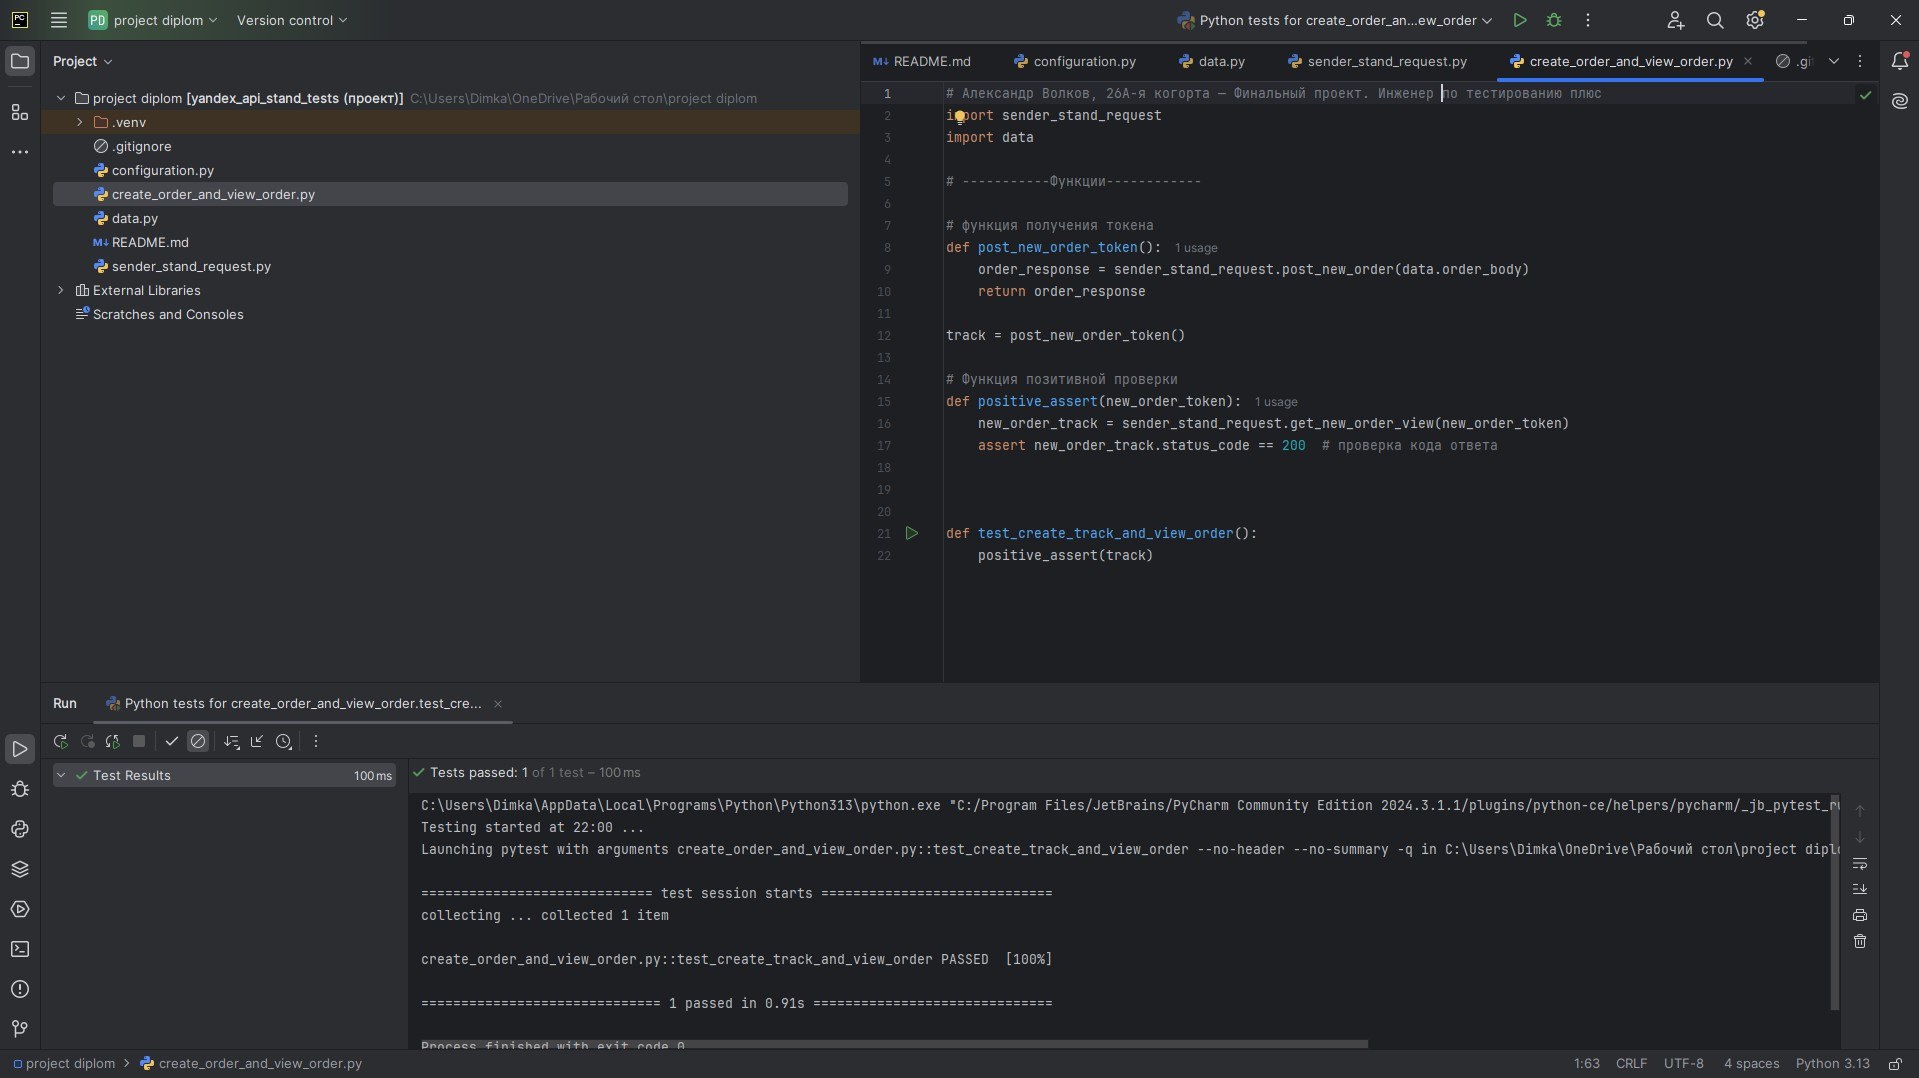
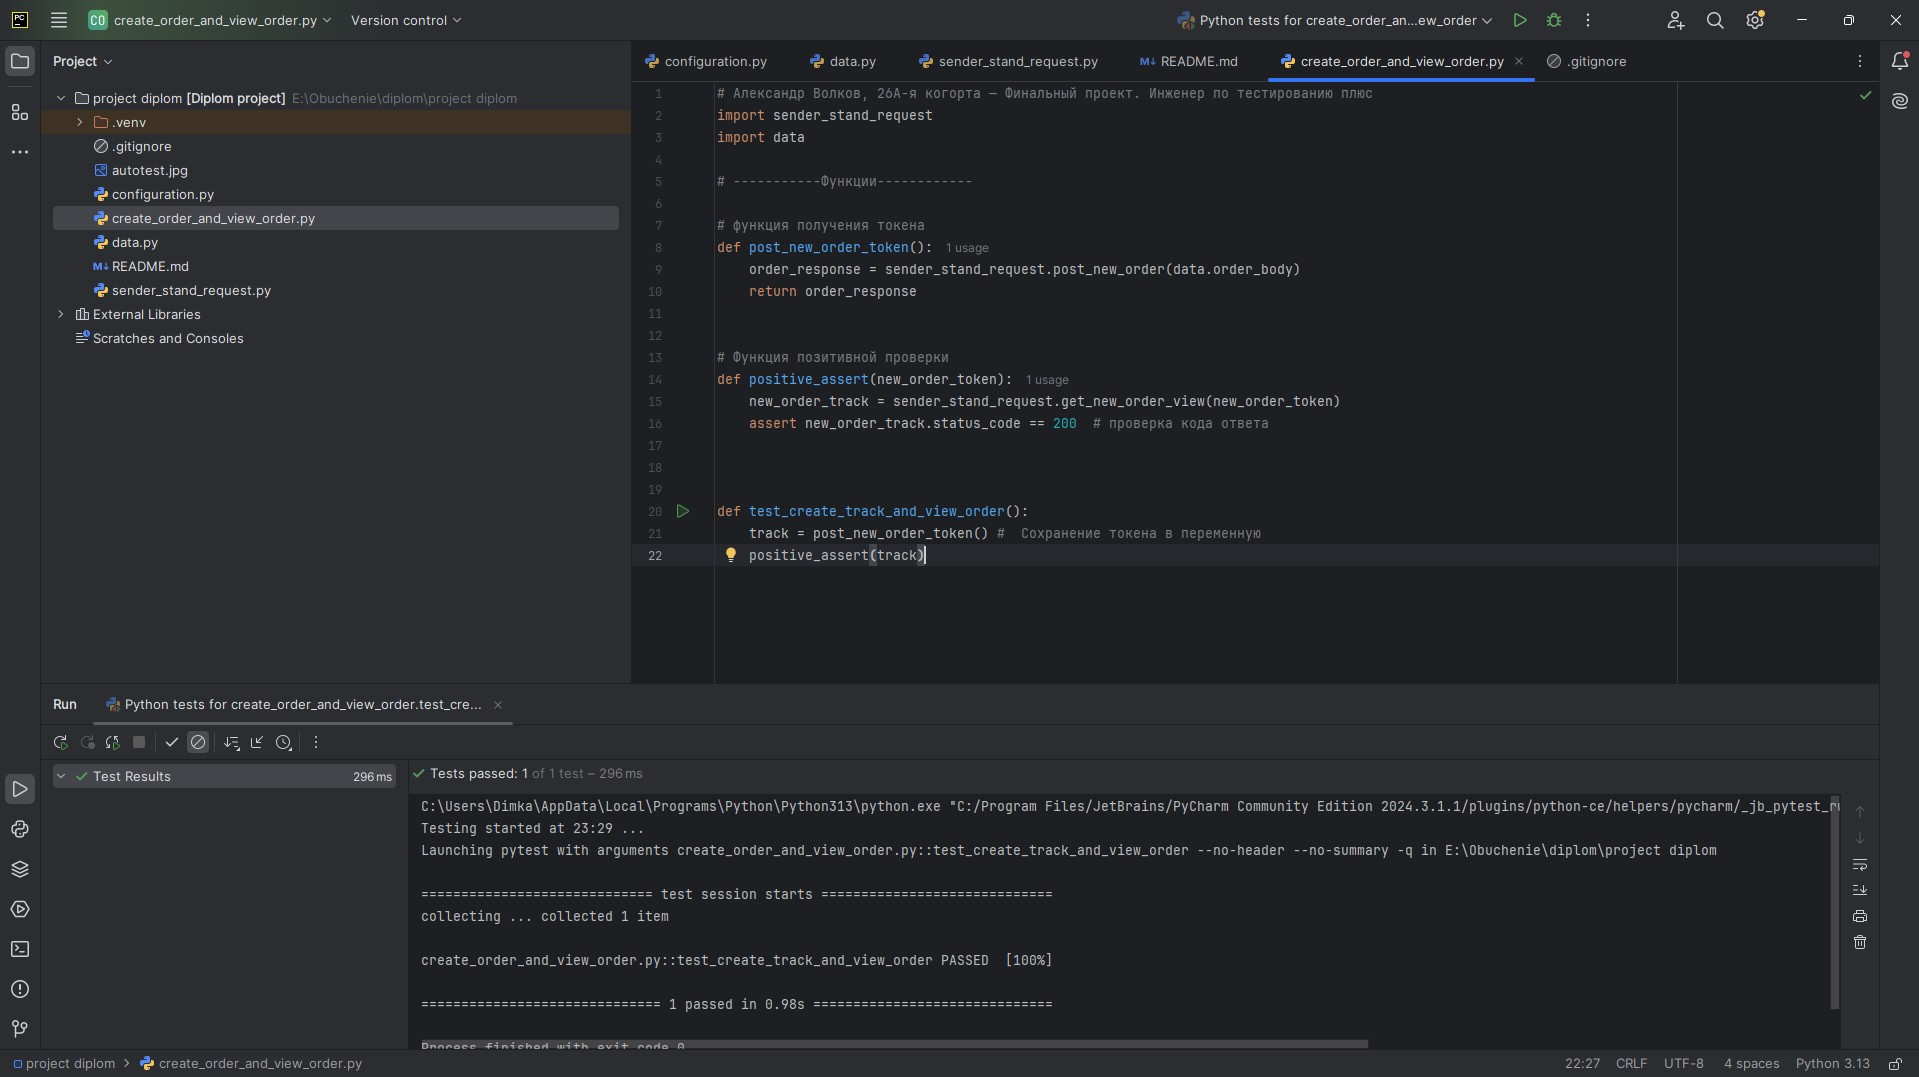
v2

diff --git a/configuration.py b/configuration.py
@@ -1,12 +1,7 @@
 # URL_SERVICE хранит базовый URL веб-сервиса, который используется для доступа к API или другим ресурсам.
 # Значение должно быть скопировано из настроек или документации сервиса, к которому предоставляется доступ.
 # Пример значения: "https://api.example.com"
-URL_SERVICE = "https://066dae5d-fed3-4a99-98b8-27d713cb9415.serverhub.praktikum-services.ru"
-
-# DOC_PATH содержит путь к документации веб-сервиса.
-# Этот путь используется для формирования полного URL пути к документации, добавляя его к базовому URL сервиса.
-# В результате получится что-то вроде "https://api.example.com/docs/"
-DOC_PATH = "/docs/"
+URL_SERVICE = "https://454f9b71-db74-47e6-bcea-1f5e913c9134.serverhub.praktikum-services.ru"
 
 # CREATE_ORDER_PATH хранит путь к API-методу для создания нового заказа.
 # Этот путь будет использоваться для формирования полного URL-адреса в сочетании с базовым URL сервиса,

diff --git a/create_order_and_view_order.py b/create_order_and_view_order.py
@@ -9,7 +9,6 @@ def post_new_order_token():
     order_response = sender_stand_request.post_new_order(data.order_body)
     return order_response
 
-track = post_new_order_token() # Сохранение токена в переменную
 
 # Функция позитивной проверки
 def positive_assert(new_order_token):
@@ -19,4 +18,5 @@ def positive_assert(new_order_token):
 
 
 def test_create_track_and_view_order():
+    track = post_new_order_token() #  Сохранение токена в переменную
     positive_assert(track)

diff --git a/README.md b/README.md
@@ -1,1 +1,4 @@
-# diplom_practicum
+# Тесты на проверку создания заказа в приложении "Яндекс.Самокат" с помощью API Яндекс.Самокат.
+- Для запуска тестов должны быть установлены пакеты pytest и requests
+- Запуск всех тестов выполняется командой pytest
+- Выполнение проверок по чек-листу в файле create_kit_name_kit_test.py
